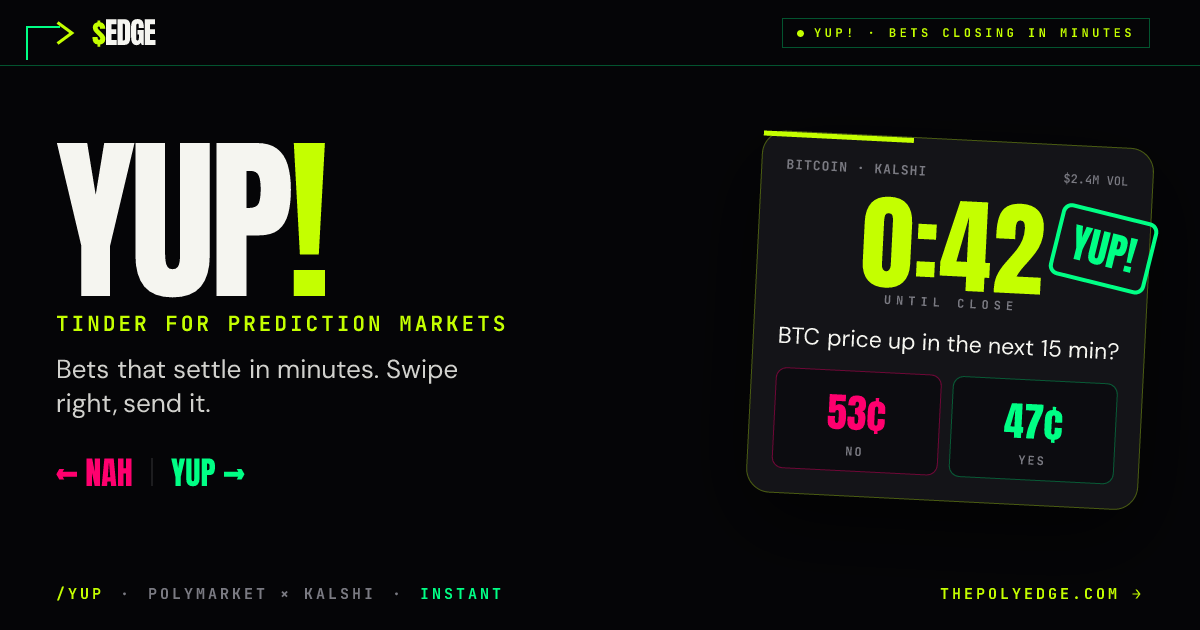
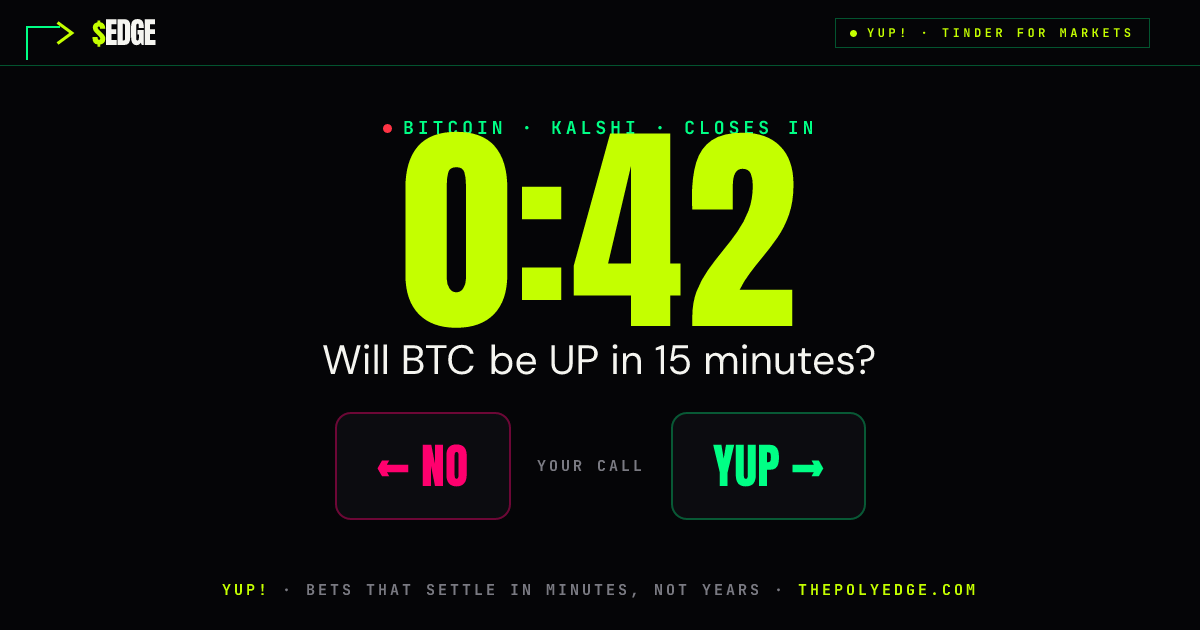
YUP! share card: bolder "0:42 — your call?" dare poster (more click-worthy)
Reworked the primary share card from a product explainer into a scroll-stopping
DARE that drops the viewer into the decision: a giant ticking 0:42 countdown, the
question "Will BTC be UP in 15 minutes?", and a ← NO / YUP → call-to-action with
a red live dot for urgency. You can't see it without forming an opinion — that's
the click. Footer carries the differentiator ("settle in minutes, not years") +
the Tinder hook. The previous product-mockup explainer is kept as og-share-yup2
for A/B testing. yup.html og:image bumped to ?v=2.

diff --git a/yup.html b/yup.html
@@ -11,9 +11,9 @@
 <link rel="canonical" href="https://www.thepolyedge.com/yup.html">
 <meta property="og:title" content="YUP! — Bets closing in minutes" id="ogTitle">
 <meta property="og:description" content="Tinder for prediction markets. Swipe bets that resolve in minutes. Send it." id="ogDesc">
-<meta property="og:image" content="https://www.thepolyedge.com/og-share-yup.png?v=1" id="ogImage">
+<meta property="og:image" content="https://www.thepolyedge.com/og-share-yup.png?v=2" id="ogImage">
 <meta name="twitter:card" content="summary_large_image">
-<meta name="twitter:image" content="https://www.thepolyedge.com/og-share-yup.png?v=1" id="twImage">
+<meta name="twitter:image" content="https://www.thepolyedge.com/og-share-yup.png?v=2" id="twImage">
 <meta name="theme-color" content="#050507">
 
 <link rel="icon" type="image/svg+xml" href="/favicon.svg">
